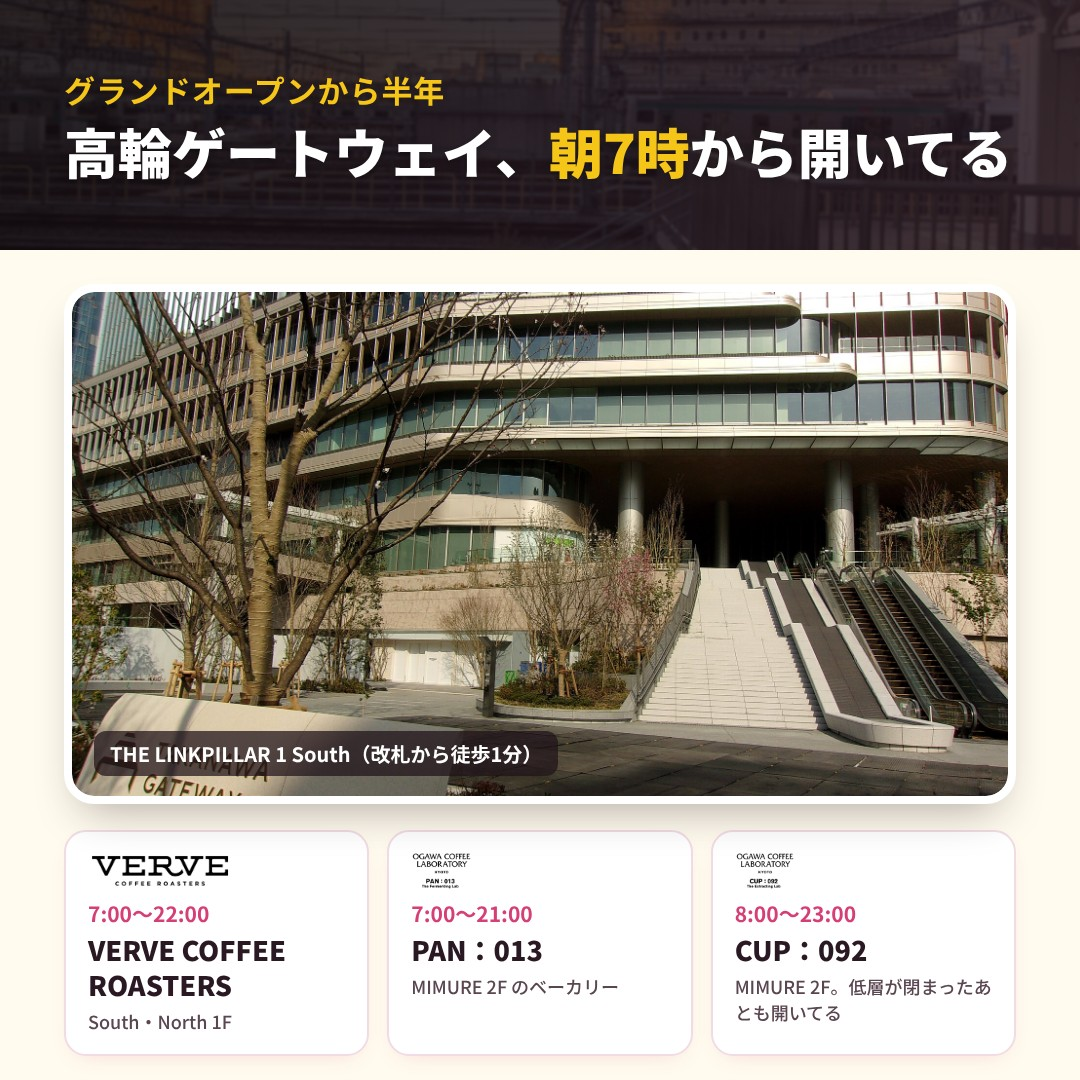
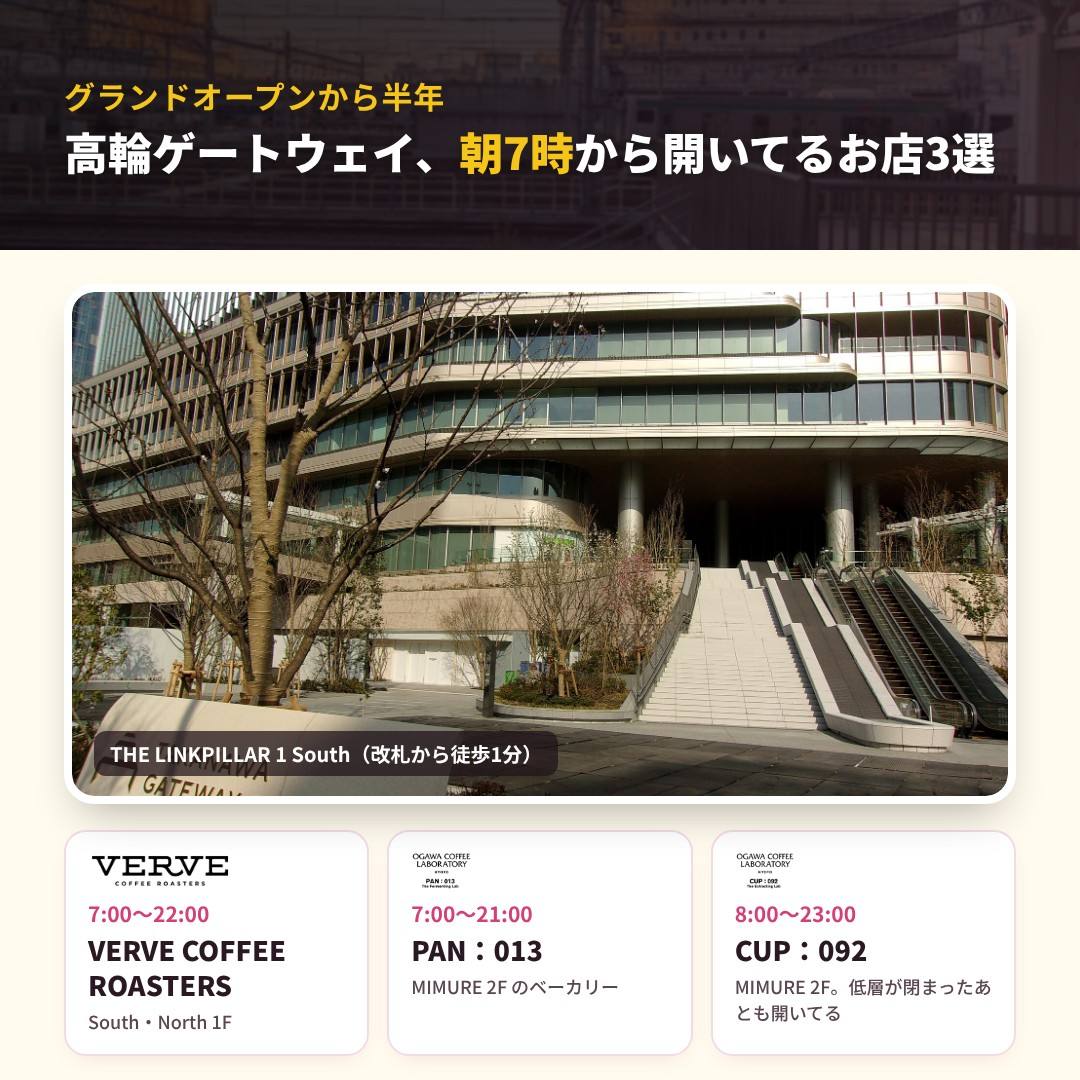
キッザニア: まとめの 1 枚目を戻し公式画像を 2・3 枚目に／高輪: 見出しを「開いてるお店3選」に／指摘をスキルと CLAUDE.md に記録
Claude-Session: https://claude.ai/code/session_01H2JQqdMCeKNiMVUTrAyX2t

Changed region(s): [[0.0611, 0.0611, 0.9472, 0.1833]]

diff --git a/scripts/image-review/page.html b/scripts/image-review/page.html
@@ -686,10 +686,11 @@
     {
       // **未投稿**（2026-11-01・目的: news）。記事の紹介ではない投稿
       key: "news-kidzania-adult", title: "大人のキッザニア クリスマス（予約は11/9 12:00から）", slug: "kidzania-tokyo-adult-christmas-2026",
-      attach: "[1/2]（2枚）",
+      attach: "[1/2]（3枚）",
       images: [
-        { file: "1-official.jpg", name: "1枚目", cap: "公式のキービジュアル（加工なし）" },
-        { file: "2-point.jpg", name: "2枚目", cap: "公式の料金表（東京）＋要点" }
+        { file: "2-point.jpg", name: "1枚目", cap: "まとめ（公式のキービジュアル＋要点）" },
+        { file: "1-official.jpg", name: "2枚目", cap: "公式のキービジュアル（加工なし）" },
+        { file: "3-price.jpg", name: "3枚目", cap: "公式の料金表（キッザニア東京）" }
       ]
     },
     {

diff --git a/.claude/skills/x-post-images/SKILL.md b/.claude/skills/x-post-images/SKILL.md
@@ -355,6 +355,8 @@ cat public/images/<slug>/photos/_manifest.json
 | 2026-10-22 | **背景は実際の花火の画像を透過させて花火感を出して／お酒・ソフトドリンク・チケット・YouTube の画像を透過して表示して／「6つ」じゃなくて「６選」に**（花火の引用ポスト・6件） | 自作の図だけだと「何の話か」が絵で伝わらない。**1 枚目は記事の CC BY-SA の写真を背景に敷き、撮影者名は ALT に書いた**（panels.json の `alt`）。飲み物・チケットは Noto Color Emoji（OFL）を大きく薄く、YouTube は公式アイコン（改変なし）。**html パネルの CSS の `url()` は書き換えられず読めない**（一時 HTML が `x/` に置かれる）。写真は `<img src>` で置く。写真の上端に暗い帯が出たので上を 80px 切った |
 | 2026-10-29 | **「この画像も使って／こういう時はなるべくプレスや公式の画像をそのまま使って臨場感を出して」**（ローソン・ユナイテッドシネマ 豊洲のキービジュアルを指して） | **プレスリリース・公式の告知が題材のときは、公式のキービジュアル・写真を加工せずにそのまま 1 枚目に置く**（正方形にしない・文字を足さない）。自作のカードはその後ろに足す。出典は ALT に書く（2026-10-11 の決まり）。自作のカードだけで組まない |
 | 2026-11-01 | **下書き投稿に、公式から画像を持ってきてうまく成形してアイキャッチ画像を作るなど、そこまではやってほしい／ブログの湾岸ライフ記事のように** | §1-C を新設。湾岸ニュースの候補 7 組（ティム・バートン・ららぽーとBF・新豊洲クリスマス・空飛ぶクルマ・大人のキッザニア・ドラえもん未来デパート・佃島）に、blog3 が記事で取った公式の画像から 1 枚目（公式の画像を正方形に）と 2 枚目（公式の写真＋要点）を作った |
+| 2026-11-08 | **「元々の1枚目の画像を消せって誰が言った？勝手に指示を解釈して変えないで。元に戻せ」**（大人のキッザニア。「公式の画像を3枚くらい添付して」を受けて、まとめの 1 枚目を外して公式画像に入れ替えた） | **「画像を足して」は追加の指示。今ある画像は 1 枚も消さない・差し替えない。** まとめの 1 枚目はそのまま 1 枚目に残し、公式の画像は 2 枚目・3 枚目に足す。「同じ画像を 2 度使わない」（§0 の 2）を理由に、利用者が残したい画像を消さない。**利用者の指示が §0 より上** |
+| 2026-11-08 | **「『開いてるお店3選』とかにしないとさすがに意味が伝わらない／キーワードやタイトルで日本語になってない文章は作らないで」**（高輪ゲートウェイ 1 枚目の見出し「高輪ゲートウェイ、朝7時から開いてる」） | **見出しは「何が・いくつ」まで書いて、読む人が何を見る画像か 1 行で分かる日本語にする。** 主語や目的語を落とした「〜から開いてる」のような切れた文で終わらせない（例: 「朝7時から開いてるお店3選」）。出す前に見出しだけを声に出して読み、それだけで意味が通るか確かめる |
 <!-- 追記はこの表の下に。日付・指摘・反映 の 3 列を必ず埋める -->
 
 ## 7. 関連

diff --git a/CLAUDE.md b/CLAUDE.md
@@ -997,6 +997,17 @@ svg 参照を丸ごとダンプして、**推測でやり直さない**（`t115`
 - **主役（何を比べる投稿か）を変えるときは、作る前に聞く**
 - **報告に「変えた箇所／残した箇所」を出す。** 勝手に変えた所が見えるように
 
+#### 「足して」は追加の指示。今あるものを消さない（2026-11-08 に強く叱られた・例外なし）
+
+> ふざけるな。元々の1枚目の画像を消せって誰が言った？勝手に指示を解釈して変えないで。元に戻せ。
+> 1枚目のまとめ記事を踏まえた上で、追加で公式サイトから取得できる画像等を2枚目、3枚目に添付しろってこと
+
+**「画像を 3 枚くらい添付して」を受けて、まとめの 1 枚目を外し、公式の画像に入れ替えた。** 「同じ画像を 2 度使わない」を理由に、自分で消した。
+
+- **「足して」「添付して」「増やして」は、今あるものの後ろに加える指示。** 今ある画像・文・項目を 1 つも消さない・差し替えない
+- **スキルの決まり（同じ画像を使わない など）を理由に、利用者が残している物を消さない。** 決まりとぶつかるなら、消す前に聞く
+- 見出し・タイトルは「何が・いくつ」まで書いて、それだけで意味が通る日本語にする（同じ日に「開いてるお店3選」と直された）。`x-post-images` スキル §6
+
 #### 閉じられたダイアログは「委ねられた」ではない
 
 **利用者が答えなかった問いは、未決のまま。自分で答えない。**
